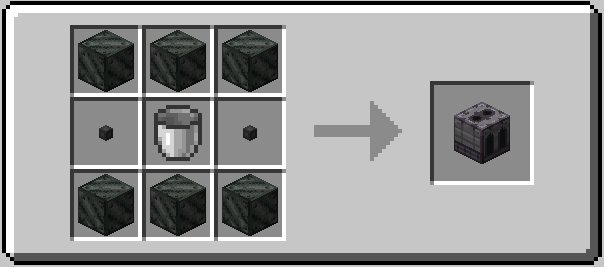
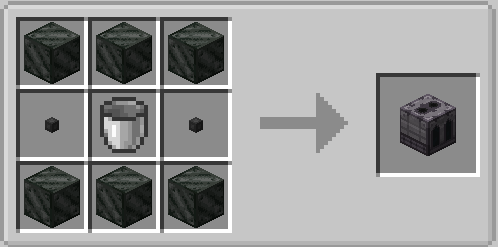
Add some machines in the wiki

diff --git a/wiki/machines.md b/wiki/machines.md
@@ -1,0 +1,38 @@
+# Machines
+
+Stellaris has a lot of Machines for various operations. Let's take a look at theses blocks !
+
+## Water Separator
+
+The water separator transform water into  `Oxygen` and `Hydrogen`
+
+Need Energy ⚡
+
+![water separator craft](/recipes/water_separator.png)
+
+The machine works by putting water in the second slot and it will generate Hydrogen and Oxygen that you can gather by placing buckets under the tanks
+
+![water separator](/menus/water_separator.png)
+
+## Vacuumator
+
+The Vacuumator allow you to put food inside Cans that you can eat in space.
+
+![Vacuumator](/recipes/vacuumator.png)
+
+For this machine to work you need to put a can in the first slot, food in the second and an empty glass bottle in the third.
+The machine will give you a can with food inside and a water bottle.
+
+![Vacuumator](/menus/vacuumator.png)
+
+## Fuel Refinery
+
+The Fuel Rafinery is very important. It allow you to create fuel
+
+Need Energy ⚡
+
+![Fuel Refinery](/recipes/fuel_refinery.png)
+
+To create Fuel, you need to input oil in the first slot and it will generate fuel that you can get by putting a bucket in the last slot
+
+![Fuel Refinery](/menus/fuel_refinery.png)
